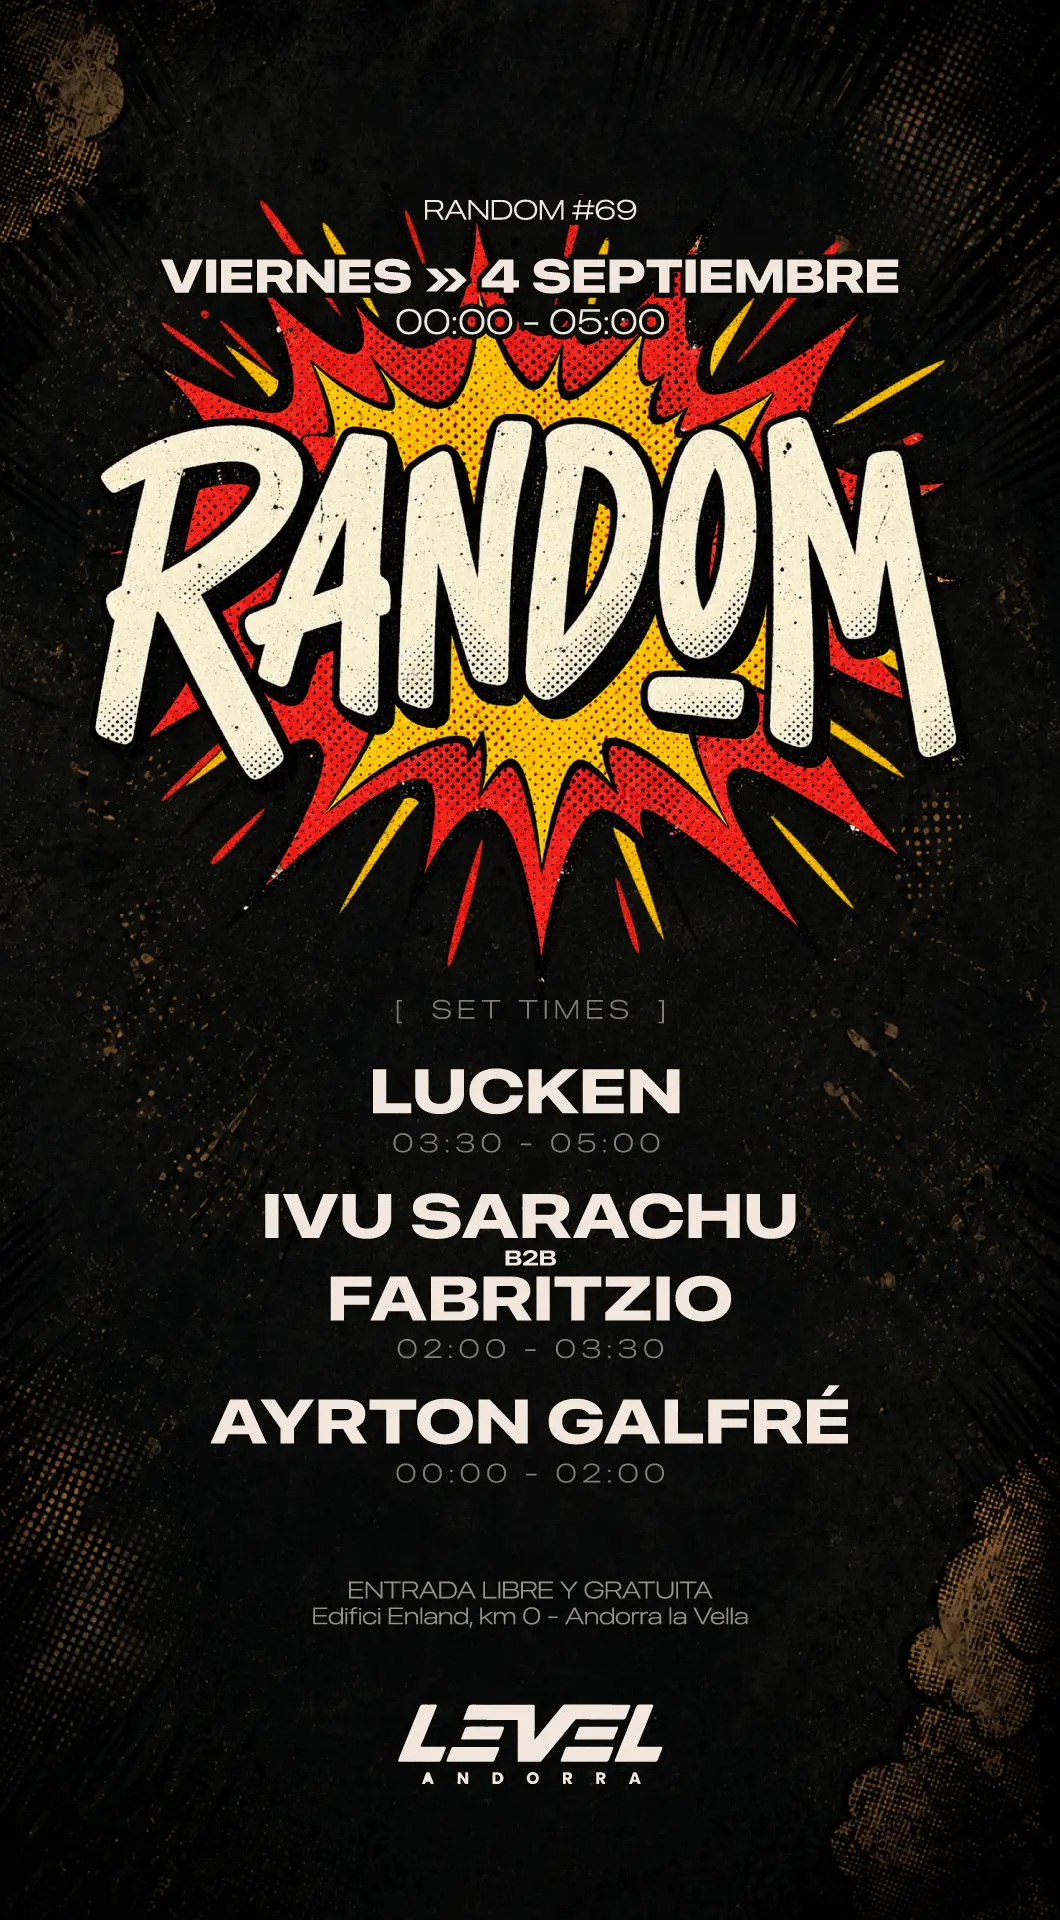
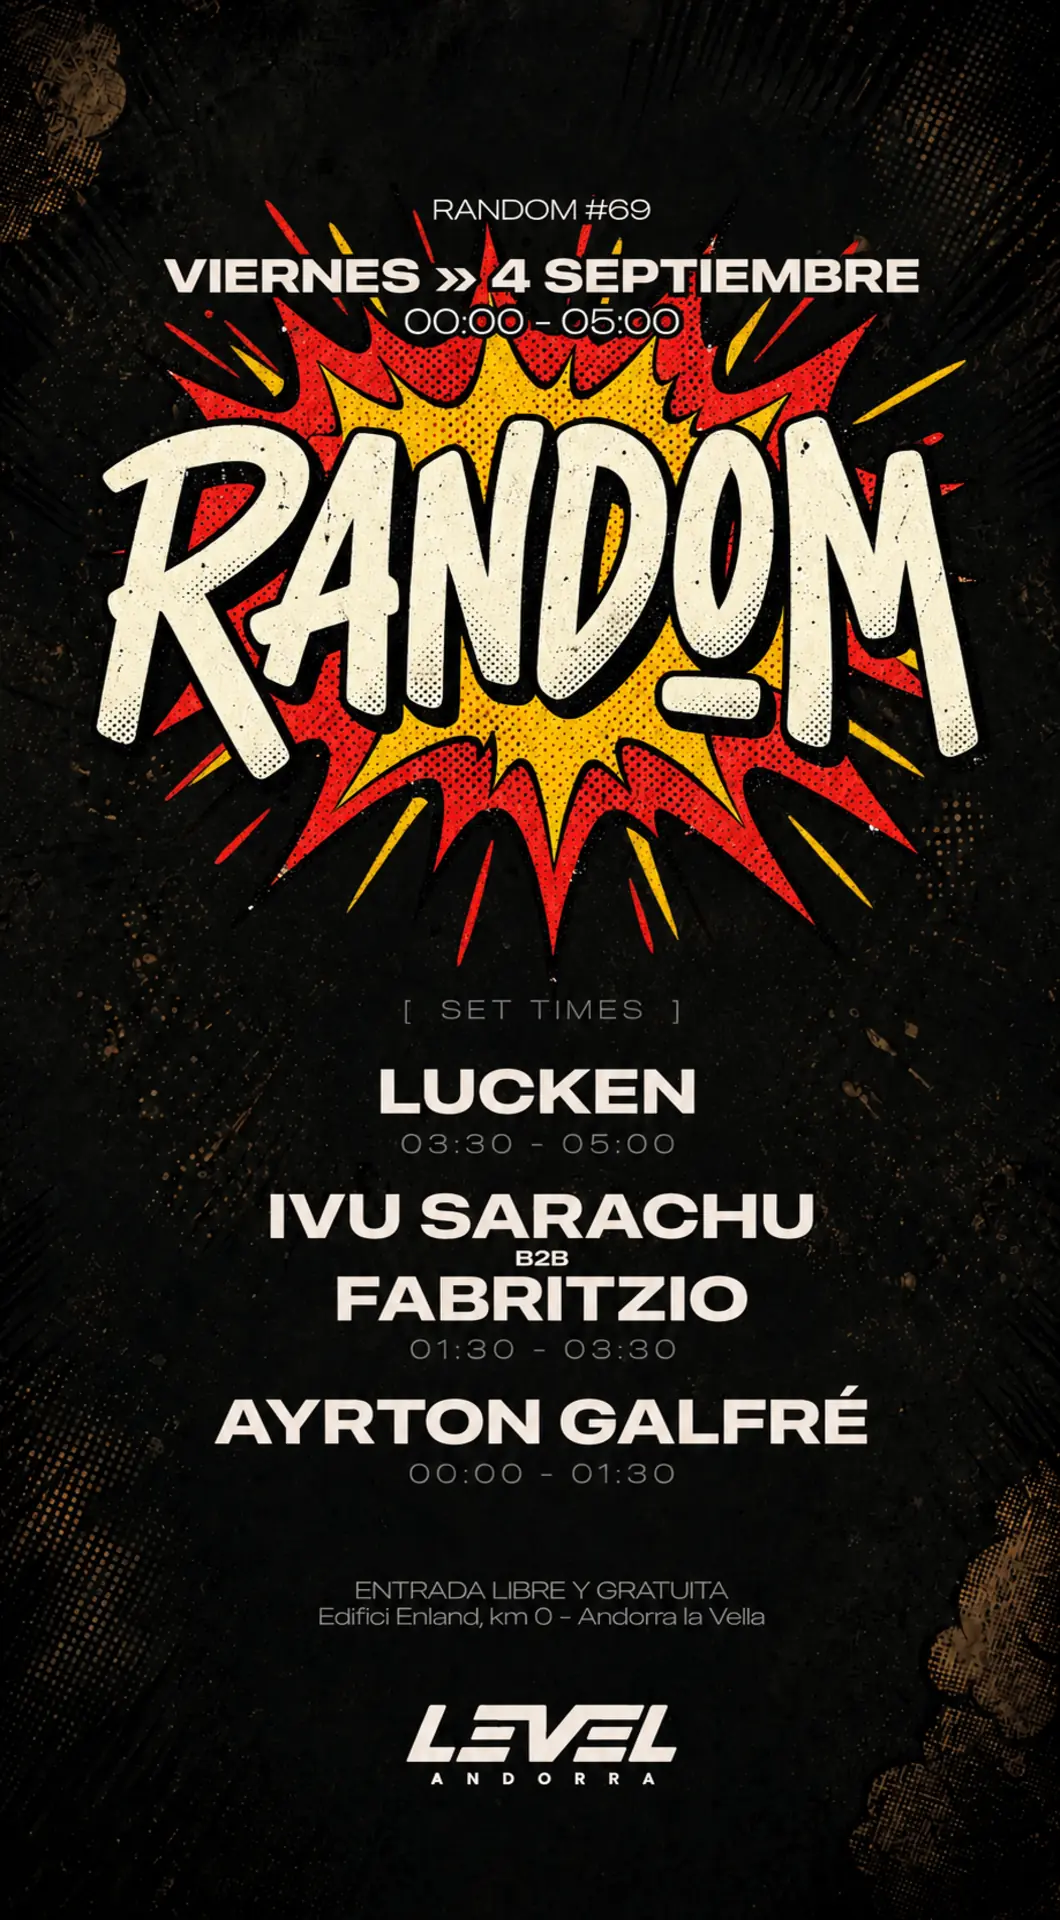
Correct RANDOM #69 set times

diff --git a/docs/index.html b/docs/index.html
@@ -1108,7 +1108,7 @@
                 <span class="flyer3d-edition">#69</span>
               </div>
               <div class="flyer3d-face flyer3d-face--back">
-                <img src="assets/random-69-set-times.webp" data-share-src="assets/share/random-69-set-times.jpg" alt="Flyer con los set times de RANDOM #69" loading="lazy" />
+                <img src="assets/random-69-set-times.webp?v=20260826-2" data-share-src="assets/share/random-69-set-times.jpg?v=20260826-2" alt="Flyer con los set times de RANDOM #69" loading="lazy" />
               </div>
             </div>
             <div class="event-panel event-panel--comic" data-panel>
@@ -1117,8 +1117,8 @@
               <p class="event-meta">00:00 – 05:00 · LEVEL ANDORRA</p>
               <p class="event-place">Edifici Enland, km 0 · Andorra la Vella</p>
               <div class="schedule" aria-label="Set times de RANDOM 69">
-                <div class="schedule-row"><span>00:00 – 02:00</span><strong>AYRTON GALFRÉ</strong></div>
-                <div class="schedule-row"><span>02:00 – 03:30</span><strong>IVU SARACHU B2B FABRITZIO</strong></div>
+                <div class="schedule-row"><span>00:00 – 01:30</span><strong>AYRTON GALFRÉ</strong></div>
+                <div class="schedule-row"><span>01:30 – 03:30</span><strong>IVU SARACHU B2B FABRITZIO</strong></div>
                 <div class="schedule-row"><span>03:30 – 05:00</span><strong>LUCKEN</strong></div>
               </div>
               <div class="event-actions">

diff --git a/docs/ediciones/69-comic/index.html b/docs/ediciones/69-comic/index.html
@@ -37,7 +37,7 @@
         <h1>CÓMIC</h1>
         <p class="edition-date">VIERNES 4 SEPTIEMBRE · 2026</p>
         <p class="edition-meta">00:00 – 05:00 · LEVEL ANDORRA · Edifici Enland, km 0 · Andorra la Vella</p>
-        <section class="edition-schedule" aria-labelledby="lineup"><h2 id="lineup">LINE-UP</h2><ol><li><span>00:00 – 02:00</span><strong>AYRTON GALFRÉ</strong></li><li><span>02:00 – 03:30</span><strong>IVU SARACHU B2B FABRITZIO</strong></li><li><span>03:30 – 05:00</span><strong>LUCKEN</strong></li></ol></section>
+        <section class="edition-schedule" aria-labelledby="lineup"><h2 id="lineup">LINE-UP</h2><ol><li><span>00:00 – 01:30</span><strong>AYRTON GALFRÉ</strong></li><li><span>01:30 – 03:30</span><strong>IVU SARACHU B2B FABRITZIO</strong></li><li><span>03:30 – 05:00</span><strong>LUCKEN</strong></li></ol></section>
         <div class="edition-actions"><a class="edition-button edition-button--primary" href="https://www.google.com/maps/place/DISCOTECA+LEVEL+ANDORRA/@42.5066451,1.5314267,587m/data=!3m2!1e3!4b1!4m6!3m5!1s0x12a58b00008c03b7:0x97377cd5b09f1c00!8m2!3d42.5066451!4d1.5340016!16s%2Fg%2F11wmtngmrk?entry=ttu&amp;g_ep=EgoyMDI2MDgwNS4xIKXMDSoASAFQAw%3D%3D" target="_blank" rel="noreferrer">CÓMO LLEGAR <span>→</span></a><a class="edition-button" href="/#fechas">PRÓXIMAS FECHAS <span>→</span></a></div>
         <p class="edition-entry">ENTRADA LIBRE Y GRATUITA</p>
       </article>
